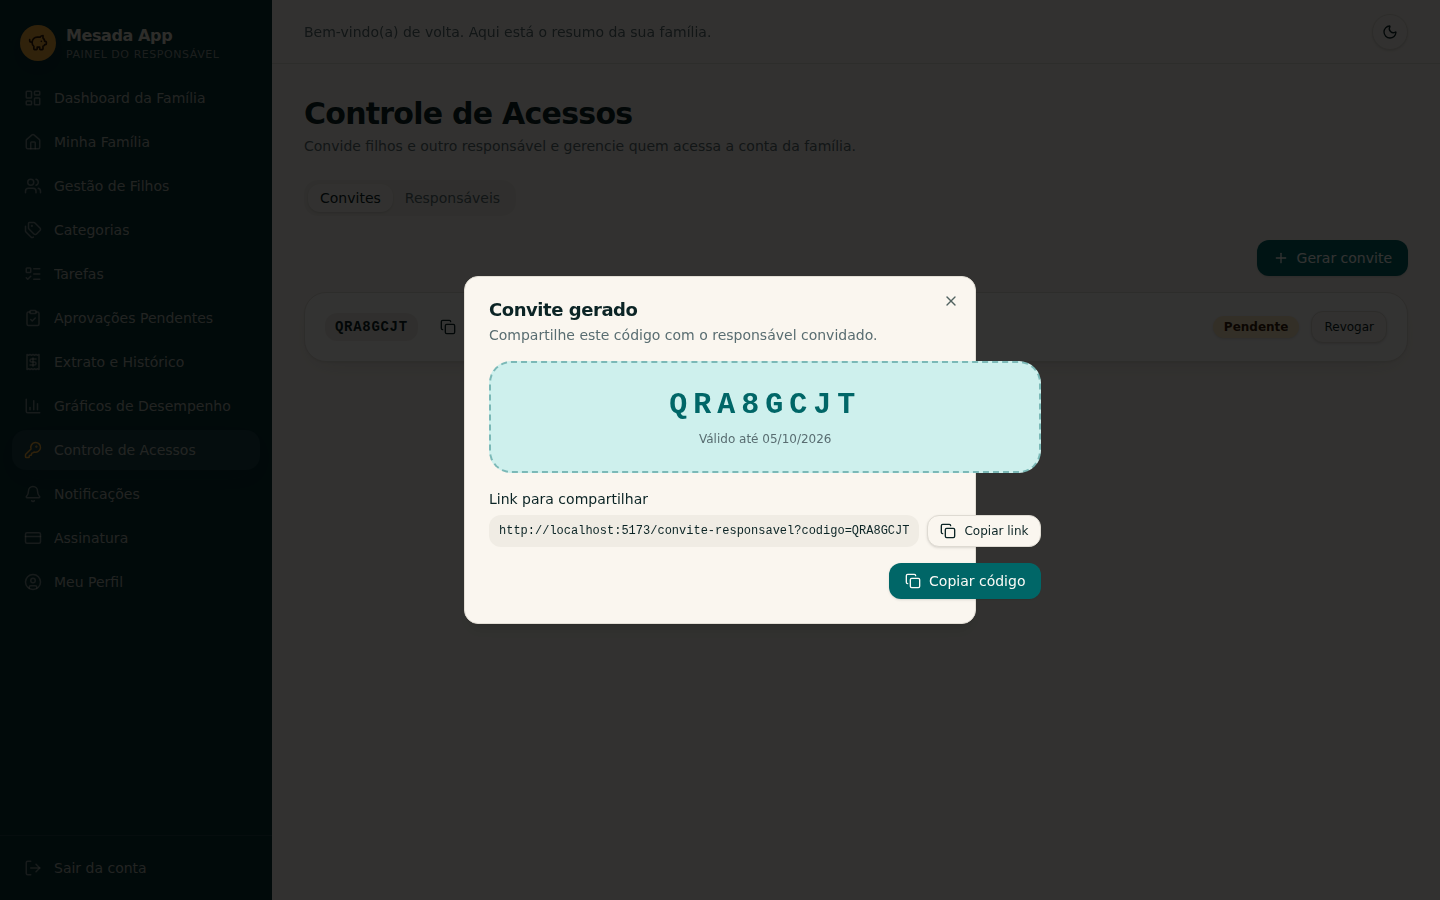
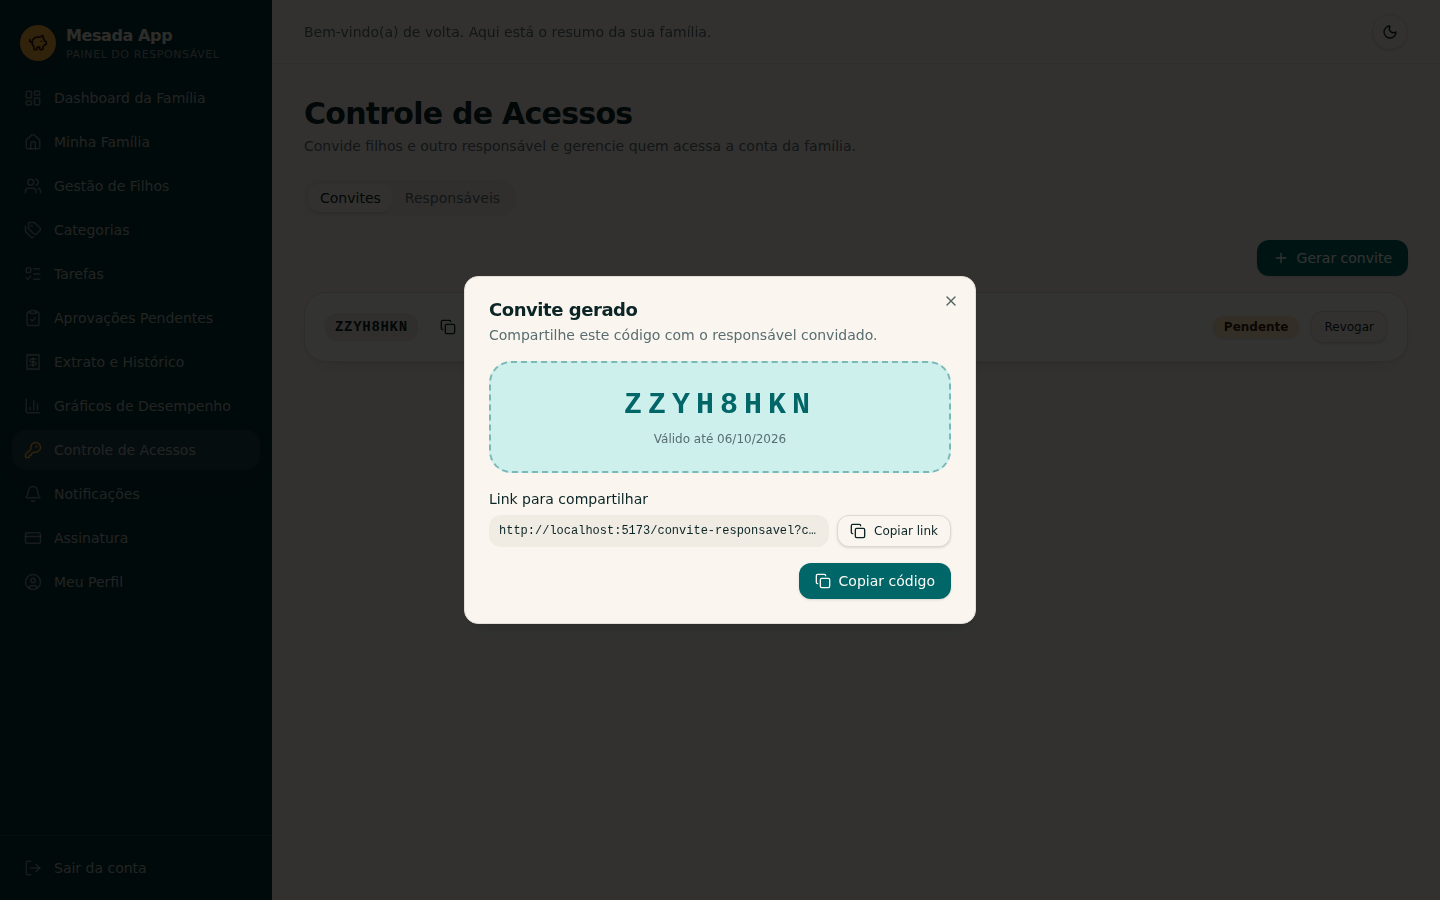
Corrigir overflow no diálogo "Convite gerado" (conteúdo vazando do modal)
O usuário notou no PDF que a caixa do código, a linha do link e os botões
de copiar ultrapassavam a borda do diálogo. Confirmado via medição de DOM
(não só visual): a largura mínima do texto do código (tracking-[0.2em])
forçava toda a coluna do grid do DialogContent a ficar mais larga que o
próprio diálogo, já que grid items não encolhem abaixo do conteúdo por
padrão. Corrigido em src/routes/_app.acessos.tsx (min-w-0 nos containers +
break-all no texto do código) via Lovable, validado com overflow 0px em
todos os elementos, e o print 30 e o adendo foram atualizados.

Claude-Session: https://claude.ai/code/session_01TPxua2Lca4T748t5VtkPjb

diff --git a/docs/adendo-web.md b/docs/adendo-web.md
@@ -117,8 +117,10 @@ Assinaturas, Suporte, Métricas, Categorias Padrão.
 
 ### Bugs reais encontrados nessa validação (e já corrigidos)
 
-Nenhum dos dois foi pego pelos testes de integração do backend, que batem
-na API com tipos C# diretamente em vez de JSON de verdade:
+Os dois primeiros não foram pegos pelos testes de integração do backend,
+que batem na API com tipos C# diretamente em vez de JSON de verdade; o
+terceiro só apareceu ao olhar o print de verdade da tela, não pela leitura
+do código:
 
 - **Enums serializados como número em vez de string** — o contrato
   documentado (e o que o frontend real envia/espera) sempre usa string.
@@ -127,6 +129,18 @@ na API com tipos C# diretamente em vez de JSON de verdade:
   hospedado do Lovable, ou este projeto rodando localmente) tinha toda
   chamada bloqueada pelo navegador antes de chegar à API. Corrigido com
   uma policy de CORS configurável (`Cors:OrigensPermitidas`).
+- **Conteúdo vazando para fora do diálogo "Convite gerado"** — a caixa do
+  código, a linha do link e os botões "Copiar link"/"Copiar código"
+  ultrapassavam a borda do card branco em até ~90px, ficando visíveis sobre
+  o fundo escurecido. Causa: `DialogContent` usa `display: grid`, e o texto
+  do código (`tracking-[0.2em]`, letra bem espaçada) tinha uma largura
+  mínima maior que o diálogo — como grid items não encolhem abaixo do
+  próprio conteúdo por padrão (`min-width: auto`), isso empurrava a coluna
+  inteira do grid (e todos os elementos dela) para fora do card. Corrigido
+  adicionando `min-w-0` nos containers afetados e `break-all` no texto do
+  código, em `src/routes/_app.acessos.tsx`. Medido via DOM antes/depois
+  (não só visualmente): overflow caiu de ~65-90px para 0px em todos os
+  elementos.
 
 ### Pendência conhecida
 
